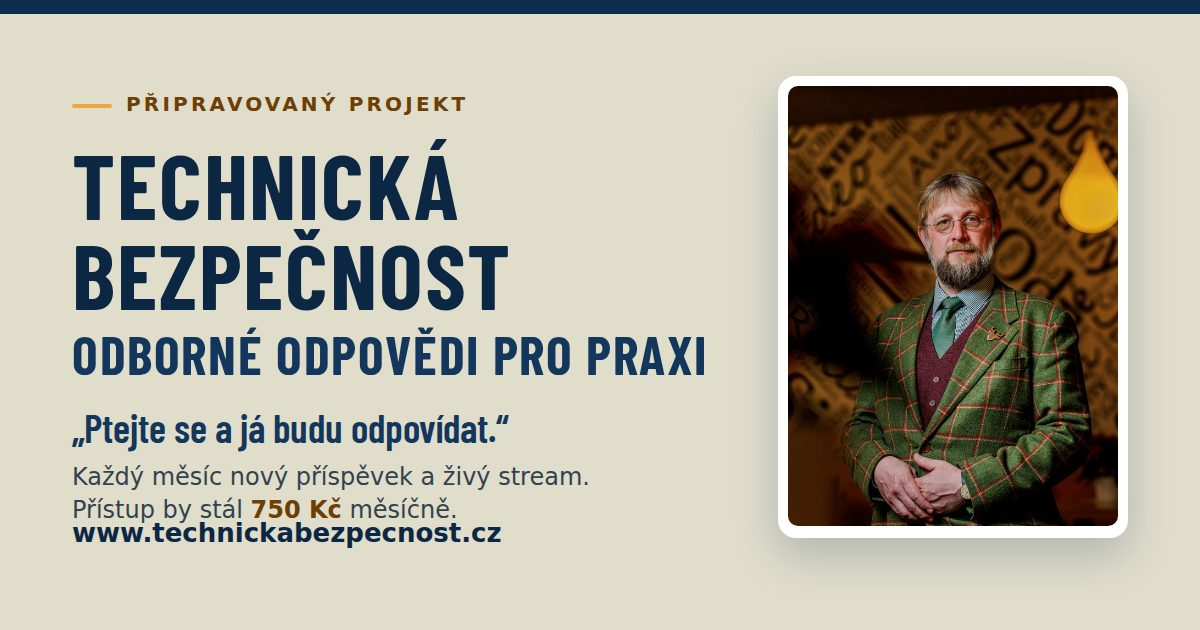
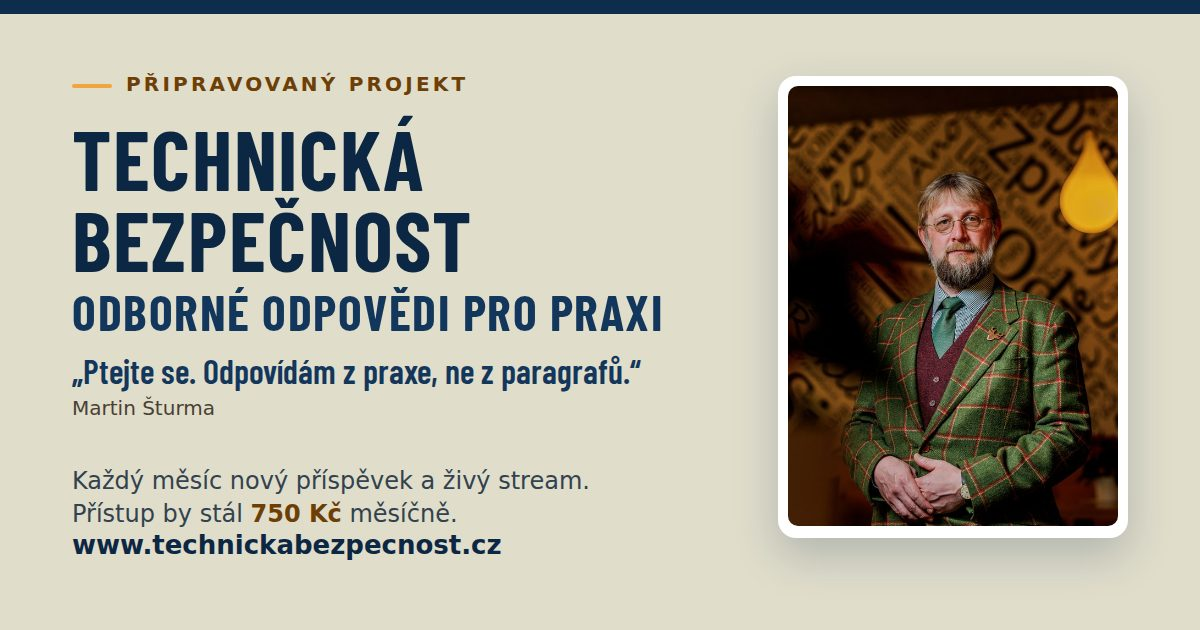
Jméno autora, nové motto, CTA „Budu mít zájem“, větší portrét na desktopu
- Pod portrétem Martin Šturma + placeholder [doplnit reference]; jméno
  také v patičce, Zásadách a alt textu.
- Motto „Ptejte se. Odpovídám z praxe, ne z paragrafů.“ na webu i v OG
  obrázku (šablona přeuspořádána, přidán řádek se jménem).
- Tlačítka „Mám zájem“ → „Budu mít zájem“ (hlavička, hero, odeslání).
- Portrét na desktopu 360 px (sizes upraveno), sloupec textu užší.
- Nasazovací skript upozorní na libovolný placeholder v hranatých
  závorkách; README aktualizováno (motto + varianty, checklist).

Claude-Session: https://claude.ai/code/session_01BPrFrtnSRncm2wvtuP24Hp

Changed region(s): [[0.0617, 0.1206, 0.5858, 0.9048]]

diff --git a/public/index.html b/public/index.html
@@ -25,7 +25,7 @@
 <header class="site-header">
   <div class="container header-row">
     <p class="brand">Technická bezpečnost</p>
-    <a class="header-cta" href="#registrace">Mám zájem</a>
+    <a class="header-cta" href="#registrace">Budu mít zájem</a>
   </div>
 </header>
 
@@ -44,7 +44,7 @@
         </ul>
         <p class="hero-price">Přístup ke kompletnímu obsahu by stál <strong>750&nbsp;Kč</strong> měsíčně.</p>
         <div class="hero-actions">
-          <a class="btn btn-primary" href="#registrace" data-vyber="ANO">Mám zájem</a>
+          <a class="btn btn-primary" href="#registrace" data-vyber="ANO">Budu mít zájem</a>
           <a class="btn btn-ghost" href="#detaily">Zjistit víc<span aria-hidden="true">&nbsp;↓</span></a>
         </div>
 
@@ -84,7 +84,7 @@
                   <p class="field-error" id="err-email-h" hidden></p>
                 </div>
                 <div class="form-error" id="form-error-ano-hero" role="alert" hidden></div>
-                <button class="btn btn-primary" type="submit">Odeslat / Mám zájem</button>
+                <button class="btn btn-primary" type="submit">Odeslat / Budu mít zájem</button>
                 <p class="gdpr-note">Odesláním formuláře projevujete zájem o&nbsp;připravovanou službu a&nbsp;žádáte o&nbsp;zaslání informace o&nbsp;jejím spuštění. Jméno, příjmení, profesi či oblast zájmu a&nbsp;e-mail zpracovávám jen pro tento účel a&nbsp;nejpozději do 31.&nbsp;3.&nbsp;2027 je smažu. Podrobnosti: <a href="#zasady-text">Zásady zpracování osobních údajů</a>.</p>
               </form>
             </div>
@@ -95,11 +95,11 @@
       </div>
 
       <figure class="hero-portrait">
-        <img src="assets/portret-autor.jpg" srcset="assets/portret-autor-300.jpg 300w, assets/portret-autor.jpg 600w, assets/portret-autor@2x.jpg 1200w" sizes="(max-width: 959px) 72px, 300px" width="600" height="800" alt="Portrét autora projektu" fetchpriority="high">
+        <img src="assets/portret-autor.jpg" srcset="assets/portret-autor-300.jpg 300w, assets/portret-autor.jpg 600w, assets/portret-autor@2x.jpg 1200w" sizes="(max-width: 959px) 72px, 360px" width="600" height="800" alt="Portrét: Martin Šturma" fetchpriority="high">
         <figcaption>
-          <p class="hero-motto">„Ptejte se a&nbsp;já budu odpovídat.“</p>
-          <p class="hero-author">[Jméno Příjmení] · autor projektu</p>
-          <p class="hero-author-role">[kvalifikace a praxe – doplní klient, např. revizní technik VTZ, 25 let v oboru]</p>
+          <p class="hero-motto">„Ptejte se. Odpovídám z&nbsp;praxe, ne z&nbsp;paragrafů.“</p>
+          <p class="hero-author">Martin Šturma</p>
+          <p class="hero-author-role">[doplnit reference]</p>
         </figcaption>
       </figure>
     </div>
@@ -211,7 +211,7 @@
             <p class="field-error" id="err-email" hidden></p>
           </div>
           <div class="form-error" id="form-error-ano" role="alert" hidden></div>
-          <button class="btn btn-primary" type="submit">Odeslat / Mám zájem</button>
+          <button class="btn btn-primary" type="submit">Odeslat / Budu mít zájem</button>
           <p class="gdpr-note">Odesláním formuláře projevujete zájem o&nbsp;připravovanou službu a&nbsp;žádáte o&nbsp;zaslání informace o&nbsp;jejím spuštění. Jméno, příjmení, profesi či oblast zájmu a&nbsp;e-mail zpracovávám jen pro tento účel a&nbsp;nejpozději do 31.&nbsp;3.&nbsp;2027 je smažu. Podrobnosti: <a href="#zasady-text">Zásady zpracování osobních údajů</a>.</p>
         </form>
       </div>
@@ -222,11 +222,11 @@
 
 <footer class="site-footer">
   <div class="container narrow">
-    <p class="footer-owner">Provozovatel: [Jméno Příjmení] · Kontakt: [doplňte e-mail]</p>
+    <p class="footer-owner">Provozovatel: Martin Šturma · Kontakt: [doplňte e-mail]</p>
     <details id="zasady" class="privacy">
       <summary>Zásady zpracování osobních údajů</summary>
       <div class="privacy-body">
-        <p id="zasady-text"><strong>Správce:</strong> [Jméno Příjmení], fyzická osoba připravující projekt Technická bezpečnost, e-mail: [doplňte e-mail].</p>
+        <p id="zasady-text"><strong>Správce:</strong> Martin Šturma, fyzická osoba připravující projekt Technická bezpečnost, e-mail: [doplňte e-mail].</p>
         <p><strong>Jaké údaje a&nbsp;proč:</strong> Pokud vyplníte registrační formulář zájemce, zpracovávám vaše jméno, příjmení, profesi či oblast zájmu a&nbsp;e-mailovou adresu, a&nbsp;to výhradně za účelem vyhodnocení zájmu o&nbsp;připravovanou službu a&nbsp;zaslání informace o&nbsp;jejím spuštění (nejpozději do konce listopadu 2026). Právním základem je provedení opatření před uzavřením smlouvy na vaši žádost (čl.&nbsp;6 odst.&nbsp;1 písm.&nbsp;b) GDPR). Poskytnutí údajů je dobrovolné; bez nich vám však informaci o&nbsp;spuštění nebudu moci zaslat.</p>
         <p><strong>Doba uložení:</strong> Údaje uchovám do odeslání informace o&nbsp;rozhodnutí o&nbsp;spuštění či nespuštění služby a&nbsp;poté po přiměřenou dobu pro vyřízení případných navazujících žádostí, nejpozději do 31.&nbsp;3.&nbsp;2027. Poté je smažu. Pokud se ke spuštěné službě zaregistrujete, budou vaše údaje dále zpracovávány v&nbsp;rámci smluvního vztahu, o&nbsp;čemž budete samostatně informováni.</p>
         <p><strong>Komu údaje předávám:</strong> Nikomu, s&nbsp;výjimkou poskytovatele webhostingu, na jehož serverech data technicky leží (zpracovatel). Údaje nepředávám mimo EU/EHP a&nbsp;nevyužívám je k&nbsp;automatizovanému rozhodování ani profilování. Server poskytovatele může z&nbsp;bezpečnostních důvodů krátkodobě zaznamenávat IP adresy v&nbsp;provozních lozích.</p>

diff --git a/scripts/og-template.html b/scripts/og-template.html
@@ -19,14 +19,15 @@
     position: relative;
   }
   .bar { position: absolute; left: 0; top: 0; right: 0; height: 14px; background: #0e2c4c; }
-  .copy { position: absolute; left: 72px; top: 92px; width: 700px; }
+  .copy { position: absolute; left: 72px; top: 72px; width: 690px; }
   .eyebrow { color: #6e3f05; text-transform: uppercase; letter-spacing: 0.16em; font-weight: 700; font-size: 20px; margin: 0 0 22px; }
   .eyebrow::before { content: ""; display: inline-block; width: 40px; height: 4px; background: #f0a63c; margin-right: 14px; vertical-align: middle; border-radius: 2px; }
-  h1 { font-family: 'Barlow Condensed', 'Arial Narrow', sans-serif; font-weight: 700; text-transform: uppercase; color: #0c2743; font-size: 92px; line-height: 0.98; letter-spacing: 0.02em; margin: 0 0 14px; }
-  h1 span { display: block; color: #12365c; font-size: 54px; letter-spacing: 0.03em; margin-top: 10px; }
-  .motto { font-family: 'Barlow Condensed', 'Arial Narrow', sans-serif; font-weight: 600; font-size: 40px; color: #12365c; margin: 22px 0 0; }
-  .domain { position: absolute; left: 72px; bottom: 56px; font-weight: 700; font-size: 26px; color: #0c2743; }
-  .price { position: absolute; left: 72px; bottom: 104px; width: 640px; font-size: 24px; line-height: 1.35; color: #33424f; margin: 0; }
+  h1 { font-family: 'Barlow Condensed', 'Arial Narrow', sans-serif; font-weight: 700; text-transform: uppercase; color: #0c2743; font-size: 84px; line-height: 0.96; letter-spacing: 0.02em; margin: 0 0 10px; }
+  h1 span { display: block; color: #12365c; font-size: 50px; letter-spacing: 0.03em; margin-top: 8px; }
+  .motto { font-family: 'Barlow Condensed', 'Arial Narrow', sans-serif; font-weight: 600; font-size: 34px; line-height: 1.15; color: #12365c; margin: 16px 0 0; }
+  .author { font-size: 20px; color: #4a4034; margin: 6px 0 0; }
+  .domain { position: absolute; left: 72px; bottom: 44px; font-weight: 700; font-size: 26px; color: #0c2743; }
+  .price { position: absolute; left: 72px; bottom: 100px; width: 640px; font-size: 24px; line-height: 1.35; color: #33424f; margin: 0; }
   .price strong { color: #6e3f05; }
   .portrait { position: absolute; right: 72px; top: 76px; width: 330px; background: #fff; padding: 10px 10px 12px; border-radius: 18px; box-shadow: 0 18px 44px rgba(14,44,76,0.22); }
   .portrait img { display: block; width: 100%; aspect-ratio: 3/4; object-fit: cover; object-position: 50% 25%; border-radius: 10px; }
@@ -37,7 +38,8 @@
   <div class="copy">
     <p class="eyebrow">Připravovaný projekt</p>
     <h1>Technická bezpečnost <span>Odborné odpovědi pro praxi</span></h1>
-    <p class="motto">„Ptejte se a já budu odpovídat.“</p>
+    <p class="motto">„Ptejte se. Odpovídám z praxe, ne z paragrafů.“</p>
+    <p class="author">Martin Šturma</p>
   </div>
   <p class="price">Každý měsíc nový příspěvek a živý stream.<br>Přístup by stál <strong>750 Kč</strong> měsíčně.</p>
   <p class="domain">www.technickabezpecnost.cz</p>

diff --git a/public/assets/style.css b/public/assets/style.css
@@ -194,8 +194,8 @@ a:hover { color: var(--c-primary-dark); }
 
 .hero-grid {
   display: grid;
-  grid-template-columns: minmax(0, 1fr) 300px;
-  gap: 56px;
+  grid-template-columns: minmax(0, 1fr) 360px;
+  gap: 48px;
   align-items: start;
 }
 

diff --git a/README.md b/README.md
@@ -4,7 +4,7 @@ Jednostránkový web, který ověřuje zájem o připravovaný odborný portál
 **Technická bezpečnost – odborné odpovědi pro praxi**. Zájemce o placené
 členství (750 Kč měsíčně) vyplní registrační formulář (jméno, příjmení,
 profese či oblast zájmu, e-mail). Formulář je na stránce dvakrát: sbalený
-v hero (rozbalí a sbalí ho CTA „Mám zájem") a vždy viditelný dole v sekci
+v hero (rozbalí a sbalí ho CTA „Budu mít zájem") a vždy viditelný dole v sekci
 `#registrace`. Registrace se ukládají do SQLite databáze a o každém novém
 zájemci odejde e-mailové upozornění klientovi. Volba „nemám zájem" byla ve
 2. kole připomínek na přání klienta z webu odstraněna (viz „Vědomá
@@ -77,9 +77,10 @@ TB_DEV_MODE=1 php -S localhost:8000 -t public
    HTTPS funguje, můžete v `public/.htaccess` odkomentovat hlavičku HSTS.
 5. Složka `data/` musí být pro PHP zapisovatelná (obvykle stačí výchozí
    práva; jinak `chmod 770`). Databáze vznikne automaticky při první odpovědi.
-6. V `public/index.html` doplňte **jméno, kvalifikaci a kontaktní e-mail
-   provozovatele** – pod portrétem v hero (`.hero-author`, `.hero-author-role`)
-   i v patičce a Zásadách (všechny placeholdery v hranatých závorkách `[…]`;
+6. V `public/index.html` doplňte **reference autora a kontaktní e-mail** –
+   pod portrétem v hero (`.hero-author-role`, dnes „[doplnit reference]")
+   a v patičce i Zásadách („[doplňte e-mail]"); jméno Martin Šturma už je
+   vyplněno (zbylé placeholdery jsou v hranatých závorkách `[…]`;
    `scripts/build-deploy-hostinger.sh` na zbylé závorky upozorní). `og:url`
    a `og:image` už míří na www.technickabezpecnost.cz – při jiné doméně upravte.
 
@@ -131,7 +132,7 @@ Změna hesla = vygenerovat nový hash a nahradit ho v configu.
 
 ## Testovací checklist po nasazení
 
-1. CTA **Mám zájem** v hero rozbalí formulář (druhý klik ho sbalí); vyplněný
+1. CTA **Budu mít zájem** v hero rozbalí formulář (druhý klik ho sbalí); vyplněný
    formulář → success zpráva v hero i dole, řádek v DB, e-mail dorazil na
    `NOTIFY_EMAIL`.
 2. Stejný e-mail podruhé → žádný druhý řádek ani druhý e-mail (tichý úspěch).
@@ -166,9 +167,8 @@ Změna hesla = vygenerovat nový hash a nahradit ho v configu.
 z fotografie dodané klientem) je jediná fotografie na
 webu. Na desktopu je vpravo v hero s mottem a popiskem, na mobilu jako kulatý
 avatar v „podpisovém řádku". Výměna: připravte ořez 3:4 (např. squoosh.app,
-JPEG ~80 %), přepište oba soubory a případně upravte `alt` (dnes „Autor
-projektu" – bez hranatých závorek, čtečky by je předčítaly) a popisek
-`.hero-author` v `index.html` (placeholder `[Jméno Příjmení]`). Originál
+JPEG ~80 %), přepište oba soubory a případně upravte `alt` („Portrét: Martin Šturma") a popisek
+`.hero-author-role` v `index.html` (placeholder „[doplnit reference]"). Originál
 fotografie zůstává u klienta / v účtu Magnific, do repozitáře se neukládá.
 
 **Barva papíru** – hero a sekce karet mají jednobarevný podklad „starý papír"
@@ -186,10 +186,14 @@ případně je ztmavte.
 install chromium`; `node_modules/` je v `.gitignore`). Spusťte znovu po
 změně barvy papíru, motta nebo portrétu.
 
-**Motto** „Ptejte se a já budu odpovídat." je v `index.html` (`.hero-motto`)
-a v OG šabloně; klient nabídl i varianty „Mé zkušenosti jsou zde pro vás",
-„Pojďme se spolu posunout dále", „Výuka a školení jsou užitečné, ale
-zkušenosti se nedají nahradit" – výměna je jeden řetězec na dvou místech.
+**Motto** „Ptejte se. Odpovídám z praxe, ne z paragrafů." je v `index.html`
+(`.hero-motto`) a v OG šabloně – výměna je jeden řetězec na dvou místech
+(+ `node scripts/make-og-image.cjs`). Zvoleno z návrhů: „Tisíc stran norem.
+Jedna jasná odpověď.", „Vy ručíte za provoz. Já za odpovědi.", „Norma vás
+neochrání. Rozumět jí ano.", „Norma říká. Praxe ukáže. Já vysvětlím.",
+„Odpovědi bez alibismu."; původní návrhy klienta: „Ptejte se a já budu
+odpovídat", „Mé zkušenosti jsou zde pro vás", „Pojďme se spolu posunout dále",
+„Výuka a školení jsou užitečné, ale zkušenosti se nedají nahradit".
 
 **Náhled k prokliku bez serveru:** `python3 scripts/build-nahled.py
 cesta/nahled.html` složí jediný HTML soubor (fonty i obrázky vložené,
